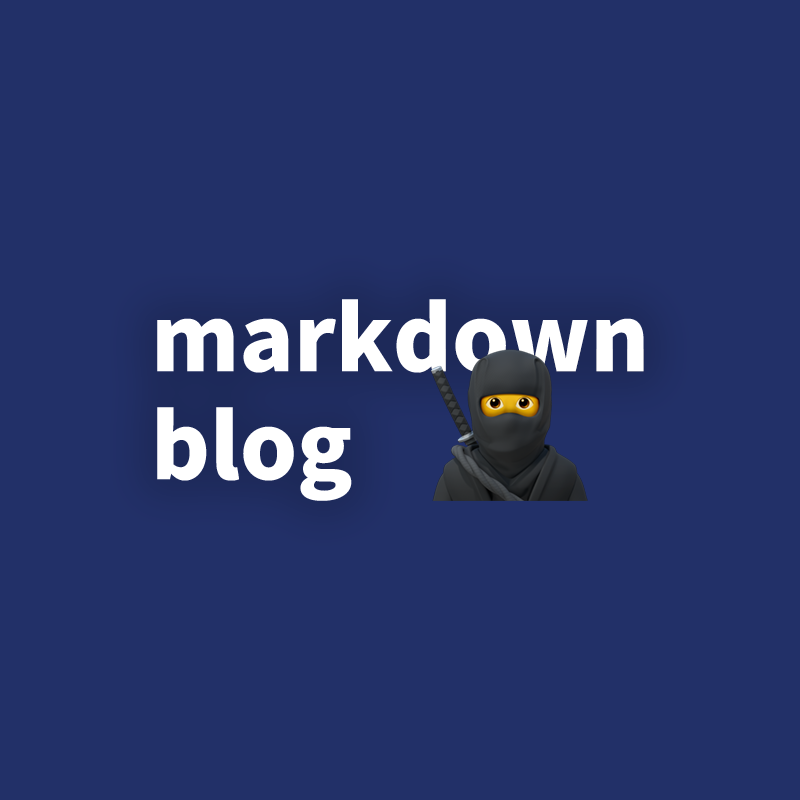
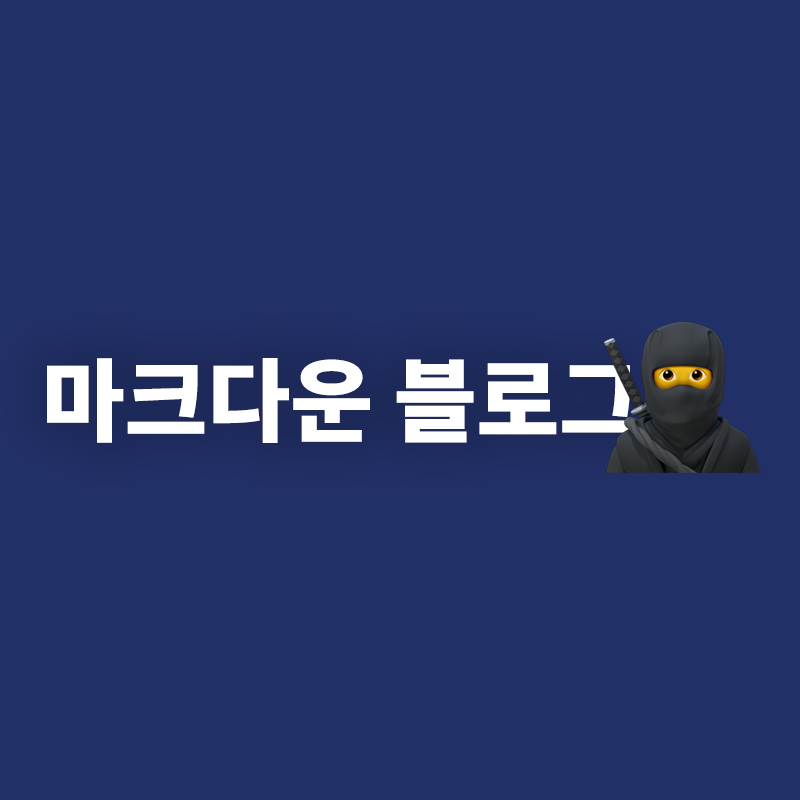
edit: 포스트 커버 이미지 변경

Changed region(s): [[0.0312, 0.375, 0.9688, 0.625]]

diff --git a/src/_posts/making-markdown-posts-by-nextjs.md b/src/_posts/making-markdown-posts-by-nextjs.md
@@ -4,7 +4,7 @@ excerpt: "fs 파일 가져오기부터 마크다운 파싱까지"
 coverImage: "/assets/posts/making-markdown-posts-by-nextjs/cover.png"
 date: "2022-10-10T05:35:07.322Z"
 ogImage:
-  url: "/assets/blog/making-markdown-posts-by-nextjs/cover.png"
+  url: "/assets/posts/making-markdown-posts-by-nextjs/cover.png"
 ---
 
 # 🛠 Next.js로 블로그 만들기
